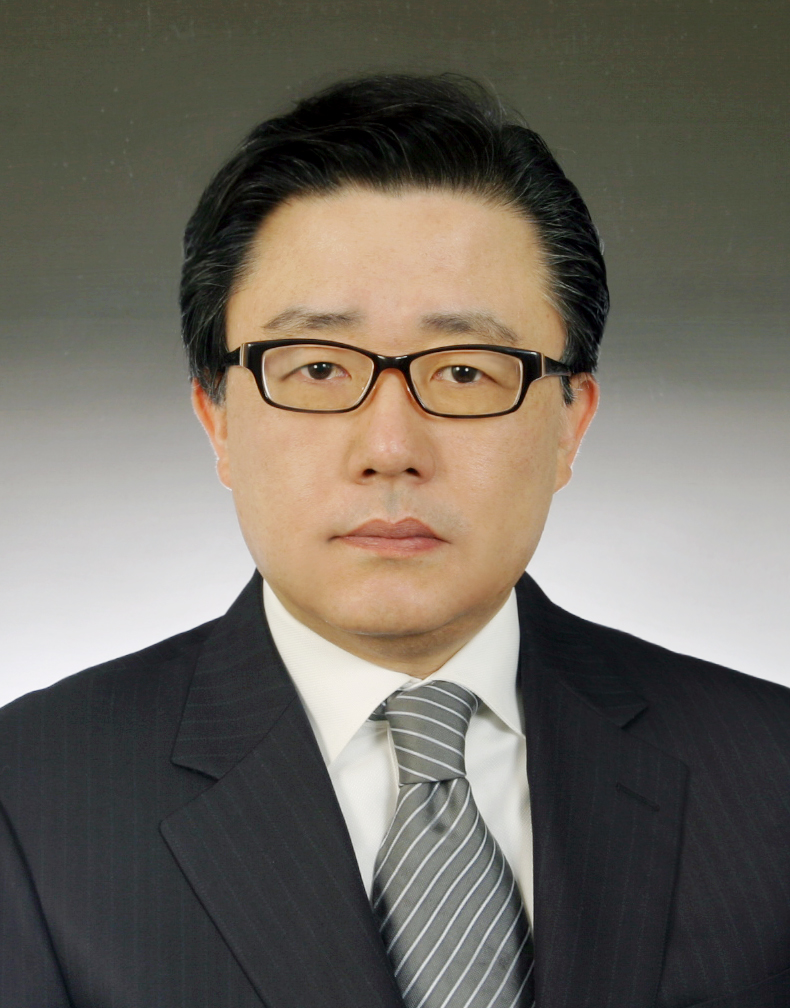
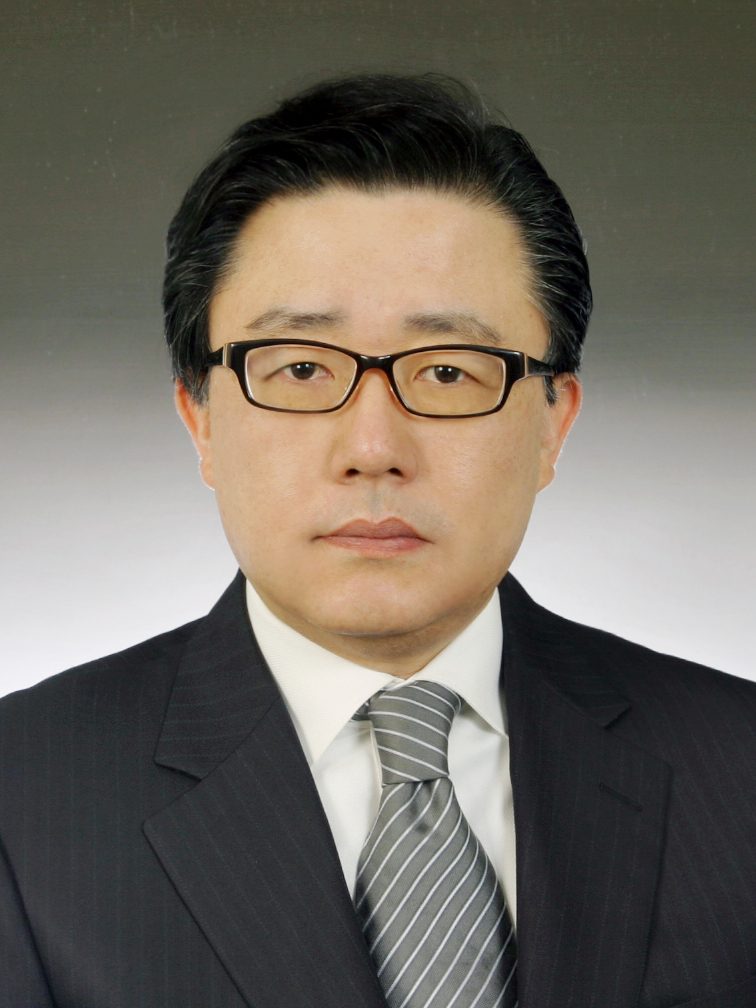
0.1.40

diff --git a/dksw/WebContent/03_include/js/common.department.js b/dksw/WebContent/03_include/js/common.department.js
@@ -59,7 +59,8 @@ function initializeDepartmentHistory() {
 
 	return false;
 }
-// 학과 교수
+
+// 학과 교수 페이지 로딩
 function initializeDepartmentProfessor() {
 	
 	var action = "/dksw/department?action=getProfessorData";
@@ -71,20 +72,32 @@ function initializeDepartmentProfessor() {
 		success : function(response) {
 			
 			var professors = "";
-			var professor = "";
 
 			for (i=0; i<response.dkswDepartmentProfessor.length; i++) {
-				var professor =  "<div class='col-lg-3 col-md-3 col-sm-6'><div class='profile-circle'>" +
-				"<div class='hover-content'><img src='" +response.dkswDepartmentProfessor[i].dkswDepartmentProfessorPicture+
-				"' /><div ></div>" +
-				"</div><h3>" + response.dkswDepartmentProfessor[i].dkswDepartmentProfessorNameKo +"</span><small>" + response.dkswDepartmentProfessor[i].dkswDepartmentProfessorNameEn + "</small>" +
-						"</h3><p>Lab: "+response.dkswDepartmentProfessor[i].dkswDepartmentProfessorLabName +
-						"</h3><p>Lab Location: "+response.dkswDepartmentProfessor[i].dkswDepartmentProfessorLabLocation +
-						"</p><p>E-mail: "+response.dkswDepartmentProfessor[i].dkswDepartmentProfessorEmail +
-						"</p><p>Research Interests: "+response.dkswDepartmentProfessor[i].dkswDepartmentProfessorField +
-						"</p><p>Contact: "+response.dkswDepartmentProfessor[i].dkswDepartmentProfessorContact +
-						"</p><p>Hompage: "+response.dkswDepartmentProfessor[i].dkswDepartmentProfessorHomepage +
-						"</p></div></div>";
+				
+				var professor = "<div class='col-lg-3 col-md-3 col-sm-6'><div class='profile'><div class='hover-content'><img class='img-responsive' src='"
+					+ response.dkswDepartmentProfessor[i].dkswDepartmentProfessorPicture
+					+ "' style='width:100%' /><div class='content-open content-center'><ul class='circle-icons text-center icons-list'><li><a href='mailto:"
+					+ response.dkswDepartmentProfessor[i].dkswDepartmentProfessorEmail
+					+ "' title='Follow us'><i class='fa fa-envelope'></i></a></li><li><a href='"
+//					+ facebook
+					+ "' title='Follow us'><i class='fa fa-twitter'></i></a></li><li><a href='"
+//					+ twitter
+					+ "' title='Follow us'><i class='fa fa-facebook'></i></a></li></ul></div></div><h3 class='font-NanumGothic'>"
+					+ response.dkswDepartmentProfessor[i].dkswDepartmentProfessorNameKo
+					+ "&nbsp;&nbsp;<small>"
+					+ response.dkswDepartmentProfessor[i].dkswDepartmentProfessorNameEn
+					+ "</small></h3><ul class='info-list-pro i-primary font-NanumGothic'><li><i class='fa fa-caret-right'></i>연구실 : "
+					+ response.dkswDepartmentProfessor[i].dkswDepartmentProfessorLabName
+					+ "</li><li><i class='fa fa-caret-right'></i>사무실 : "
+					+ response.dkswDepartmentProfessor[i].dkswDepartmentProfessorLabLocation
+					+ "</li><li><i class='fa fa-caret-right'></i>이메일 : "
+					+ response.dkswDepartmentProfessor[i].dkswDepartmentProfessorEmail
+					+ "</li><li><i class='fa fa-caret-right'></i>연락처 : "
+					+ response.dkswDepartmentProfessor[i].dkswDepartmentProfessorContact
+					+ "</li><li><i class='fa fa-caret-right'></i>홈페이지 : <a href='"
+					+ response.dkswDepartmentProfessor[i].dkswDepartmentProfessorHomepage
+					+ "' target='_blank'>바로가기</a></li></ul></div></div>"
 				
 				professors += professor;
 			}

diff --git a/dksw/WebContent/03_include/css/style.css b/dksw/WebContent/03_include/css/style.css
@@ -2202,7 +2202,7 @@ div:hover > .icon-o {
   overflow: hidden;
   position: relative;
   border-radius: 50%;
-  width: 85%;
+  width: 100%;
   height: 85%;
   margin: auto;
 }
@@ -4357,6 +4357,22 @@ ul.thumbs {
 
 .txtStatus-yellow {
 	color:#ffff00;
+}
+
+.info-list-pro {
+  padding-left:0px;
+  list-style: none;
+  margin-top:20px;
+  margin-bottom:100px;
+}
+
+.info-list-pro > li {
+	margin-bottom:8px;
+}
+
+.info-list-pro > li > i:before {
+	margin-left:10px;
+	margin-right: 8px;
 }
 
 .margin_bottom_5 {

diff --git a/dksw/src/dksw/model/MemberDAO.java b/dksw/src/dksw/model/MemberDAO.java
@@ -57,8 +57,9 @@ public class MemberDAO {
 			pstmt = con.prepareStatement("SELECT dkswMemberOfflineAuthCode FROM dksw_member_code ORDER BY dkswMemberOfflineAuthYear DESC, dkswMemberOfflineAuthMonth DESC LIMIT 1");
 			rset = pstmt.executeQuery();
 			
-			rset.next();
-			nowOfflineAuthCode = rset.getString(1);
+			if(rset.next()) {
+				nowOfflineAuthCode = rset.getString(1);
+			}
 
 			if(inputOfflineAuthCode.equals(nowOfflineAuthCode)) {
 				return true;
@@ -139,9 +140,10 @@ public class MemberDAO {
 			pstmt.setString(1, inputMemberOnlineAuthCode); 
 			rset = pstmt.executeQuery();
 			
-			rset.next();
-			memberNo = rset.getInt(1);
-			memberOnlineAuth = rset.getInt(2);
+			if(rset.next()) {
+				memberNo = rset.getInt(1);
+				memberOnlineAuth = rset.getInt(2);
+			}
 			
 			if(memberOnlineAuth == 1) {
 				return -1;
@@ -249,13 +251,14 @@ public class MemberDAO {
 		try {
 			con = DBUtil.getConnection(); 
 			
-			pstmt = con.prepareStatement("SELECT dkswMemberNo FROM dksw_member WHERE dkswMemberEmail=? AND dkswMemberPassword=password(?)");
+			pstmt = con.prepareStatement("SELECT dkswMemberNo FROM dksw_member WHERE dkswMemberEmail=? AND dkswMemberPassword=password(?) AND dkswMemberOnlineAuth=1 AND dkswMemberAdminAuth=1");
 			pstmt.setString(1, inputMemberEmail);
 			pstmt.setString(2, inputMemberPassword);
 			rset = pstmt.executeQuery();
 			
-			rset.next();
-			memberNo = rset.getInt(1);
+			if(rset.next()) {
+				memberNo = rset.getInt(1);
+			}
 			
 			if(memberNo > 0) {
 				return getMember(memberNo);
